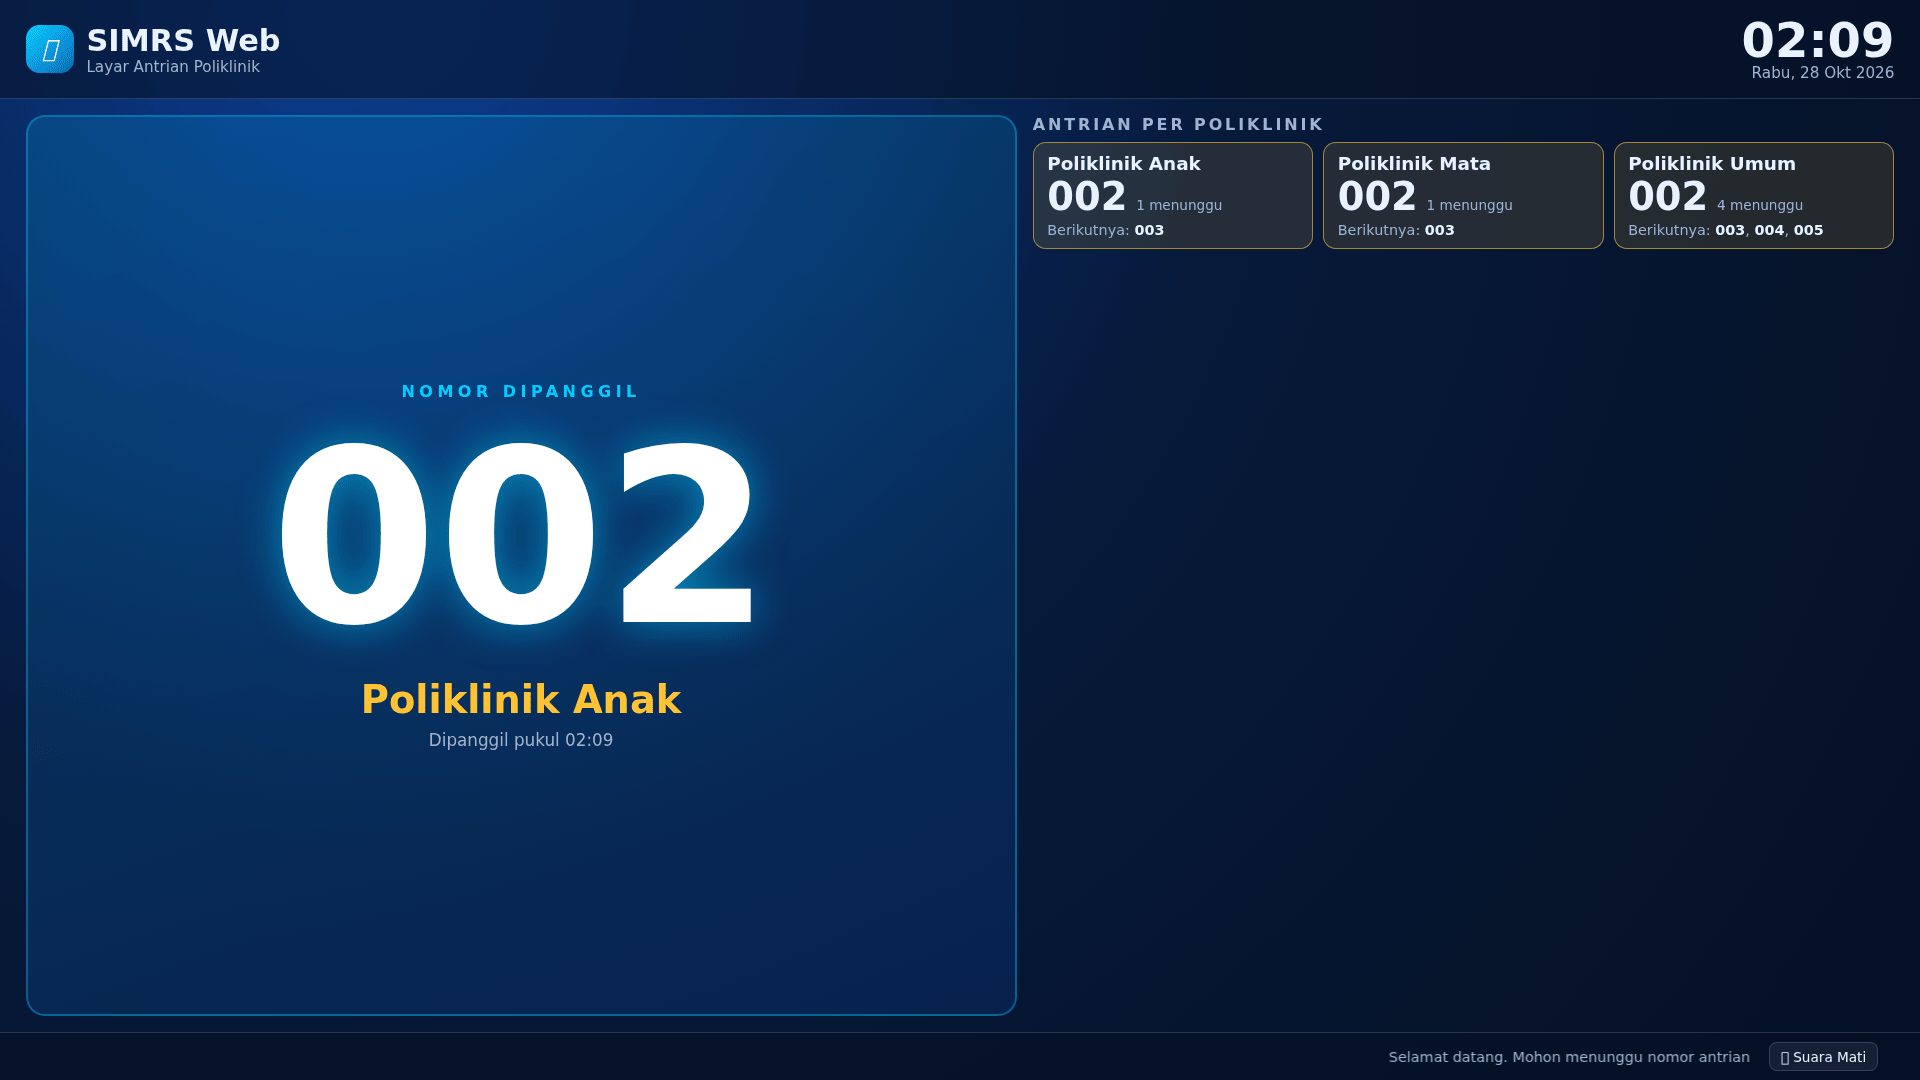
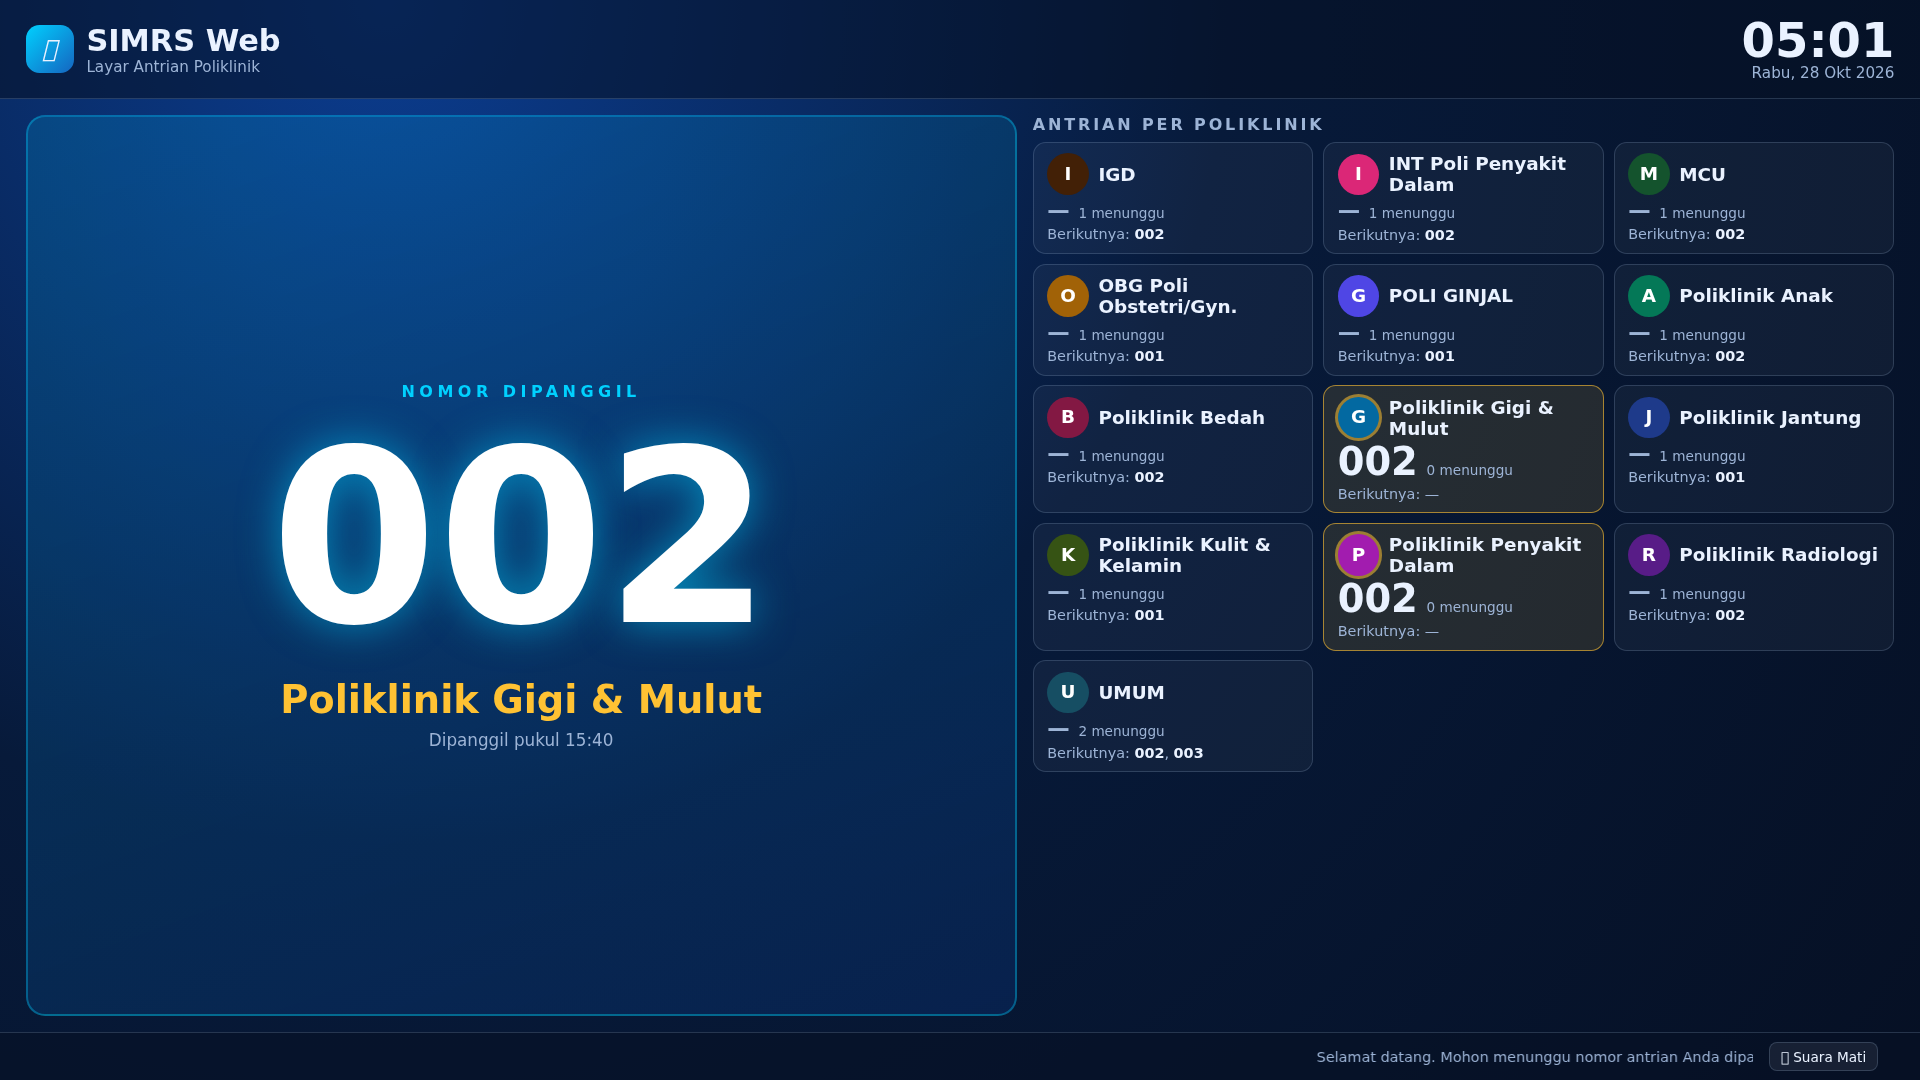
feat(antrian): pemisah warna per poliklinik
Setiap poliklinik kini punya satu warna tetap dan huruf awalan yang tampil
sama di seluruh aplikasi: kartu grup dan baris di modul Antrian, kartu
informasi kunjungan, dan kartu poliklinik di layar display. Pasien bisa
mencocokkan warna kartu antriannya dengan kartu poliklinik di layar tanpa
membaca nama poli, yang penting untuk pasien lansia atau saat layar jauh.

Warna diberikan berdasarkan urutan kd_poli, bukan hasil hash. Dengan hash,
22 poliklinik hanya kebagian 10 warna dan ada yang bersebelahan mendapat
warna sama; dengan urutan, selama poliklinik tidak lebih dari jumlah warna
(36) tidak ada satu pun yang berbagi warna. Poliklinik nonaktif ikut
dihitung supaya nomor antrian lama tetap punya warna sendiri.

Palet 36 warna disusun dengan algoritma jarak warna terbesar memakai jarak
persepsi CIELAB, sehingga warna yang berdampingan di daftar selalu berbeda
jelas. Seluruh warna diuji kontras >= 4,6 terhadap teks putih (WCAG AA)
karena huruf awalan dicetak putih di atasnya.

Pada layar display, warna dan huruf awalan dikirim lewat JSON yang sudah
ada, jadi tidak ada permintaan tambahan. Nilainya divalidasi sebagai
heksadesimal sebelum masuk ke style, dan nama poliklinik tetap diisi lewat
textContent, sehingga data dari basis data tidak bisa menyelipkan CSS/HTML.

Diverifikasi di Chromium: 13 poliklinik pada tanggal uji masing-masing
mendapat warna berbeda (border unik 13/13, 13 warna palet terdeteksi di
[…]

diff --git a/assets/css/simrs.css b/assets/css/simrs.css
@@ -718,7 +718,61 @@ hr {
 }
 
 /* ============================================================
-   5. CETAK
+   5. PEMISAH ANTRIAN PER POLIKLINIK
+   Satu warna tetap per poliklinik. Dipakai di modul Antrian, kartu
+   informasi kunjungan, dan layar display, sehingga tiket yang dipegang
+   pasien bisa dicocokkan warnanya dengan kartu poliklinik di layar.
+   ============================================================ */
+.sk-poli-mark {
+  --sk-poli: #1d4ed8;
+  display: inline-flex;
+  align-items: center;
+  justify-content: center;
+  width: 1.7rem;
+  height: 1.7rem;
+  flex: none;
+  border-radius: 999px;
+  background: var(--sk-poli);
+  color: #fff;
+  font-size: .78rem;
+  font-weight: 700;
+  line-height: 1;
+  letter-spacing: .02em;
+  vertical-align: -.35rem;
+}
+
+.sk-poli-mark-lg {
+  width: 2.6rem;
+  height: 2.6rem;
+  font-size: 1.15rem;
+  vertical-align: middle;
+}
+
+/* Kartu grup poliklinik: garis warna di kiri + judul bertinta warna. */
+.sk-poli-card {
+  border-left: 5px solid var(--sk-poli);
+}
+
+.sk-poli-card > .card-header {
+  background: rgba(148, 163, 184, .12);
+}
+
+/* Tinta header hanya bila peramban mendukung color-mix; tanpa itu tetap
+   terbaca karena latar abu-abu di atas sudah netral di kedua tema. */
+@supports (background: color-mix(in srgb, red 10%, transparent)) {
+  .sk-poli-card > .card-header {
+    background: color-mix(in srgb, var(--sk-poli) 10%, transparent);
+  }
+}
+
+.sk-poli-nama {
+  display: inline-flex;
+  align-items: center;
+  gap: .5rem;
+}
+
+/* ============================================================
+   6. CETAK
    ============================================================ */
 @media print {
   .app-sidebar,

diff --git a/pages/display.php b/pages/display.php
@@ -36,6 +36,8 @@ if ($format === 'panggil' || $format === 'json') {
     foreach (antrian_ringkasan_aktif($tgl) as $p) {
         $daftar[] = [
             'poli' => to_utf8($p['nm_poli']),
+            'warna' => poli_warna((string)$p['kd_poli']),
+            'awalan' => poli_awalan((string)$p['nm_poli'], (string)$p['kd_poli']),
             'dipanggil' => $p['nomor_dipanggil'] !== null ? antrian_nomor_tampil((int)$p['nomor_dipanggil']) : null,
             'berikutnya' => array_map(fn($n) => antrian_nomor_tampil((int)$n), $p['berikutnya']),
             'menunggu' => (int)$p['menunggu'],
@@ -145,7 +147,16 @@ $nomorDipanggil = $panggilan !== null ? antrian_nomor_tampil((int)$panggilan['no
       padding: .65rem .85rem;
     }
     .disp-card.aktif { border-color: rgba(255, 194, 51, .6); background: rgba(255, 194, 51, .12); }
-    .disp-card .nm { font-weight: 600; font-size: clamp(.85rem, 1.3vw, 1.15rem); margin-bottom: .25rem; }
+    .disp-card .nm { display: flex; align-items: center; gap: .6rem; font-weight: 600; font-size: clamp(.85rem, 1.3vw, 1.15rem); margin-bottom: .25rem; }
+    /* Pemisah warna per poliklinik — disalin dari simrs.css karena halaman ini
+       sengaja tidak memuat CSS aplikasi. Warna tetap sama dengan modul Antrian. */
+    .sk-poli-mark {
+      display: inline-flex; align-items: center; justify-content: center;
+      width: 2.6rem; height: 2.6rem; flex: none; border-radius: 999px;
+      background: var(--sk-poli, #0e7490); color: #fff;
+      font-size: 1.15rem; font-weight: 700; line-height: 1;
+    }
+    .disp-card.aktif .sk-poli-mark { box-shadow: 0 0 0 3px rgba(255, 194, 51, .55); }
     .disp-card .baris { display: flex; align-items: baseline; gap: .55rem; }
     .disp-card .angka { font-size: clamp(1.5rem, 2.8vw, 2.4rem); font-weight: 700; font-variant-numeric: tabular-nums; line-height: 1; }
     .disp-card .angka.kosong { color: var(--disp-muted); font-size: 1.4rem; }
@@ -205,8 +216,8 @@ $nomorDipanggil = $panggilan !== null ? antrian_nomor_tampil((int)$panggilan['no
       <div class="disp-cards" id="daftarPoli">
         <?php foreach ($ringkasan as $r): ?>
           <?php $dipanggil = $r['nomor_dipanggil']; ?>
-          <article class="disp-card<?= $dipanggil !== null ? ' aktif' : '' ?>">
-            <div class="nm"><?= e($r['nm_poli']) ?></div>
+          <article class="disp-card<?= $dipanggil !== null ? ' aktif' : '' ?>" style="--sk-poli: <?= e(poli_warna((string)$r['kd_poli'])) ?>">
+            <div class="nm"><span class="sk-poli-mark sk-poli-mark-lg"><?= e(poli_awalan((string)$r['nm_poli'], (string)$r['kd_poli'])) ?></span><?= e($r['nm_poli']) ?></div>
             <div class="baris">
               <?php if ($dipanggil !== null): ?>
                 <span class="angka"><?= e(antrian_nomor_tampil((int)$dipanggil)) ?></span>
@@ -337,19 +348,28 @@ $nomorDipanggil = $panggilan !== null ? antrian_nomor_tampil((int)$panggilan['no
       const next = (r.berikutnya && r.berikutnya.length)
         ? r.berikutnya.map(function (n) { return '<b>' + n + '</b>'; }).join(', ')
         : '&mdash;';
-      return '<article class="disp-card' + aktif + '">' +
-             '<div class="nm"></div>' +
+      // Warna hanya dipakai bila benar-benar heksadesimal, supaya tidak bisa
+      // menyelipkan CSS/HTML lewat kolom poliklinik.
+      const warna = /^#[0-9a-f]{6}$/i.test(r.warna || '') ? r.warna : '#0e7490';
+      return '<article class="disp-card' + aktif + '" style="--sk-poli: ' + warna + '">' +
+             '<div class="nm"><span class="sk-poli-mark sk-poli-mark-lg"></span><span class="nm-teks"></span></div>' +
              '<div class="baris">' + angka + '<span class="kecil">' + r.menunggu + ' menunggu</span></div>' +
              '<div class="next">Berikutnya: ' + next + '</div></article>';
     });
     // Hari tanpa antrian: tetap tampilkan keterangan, jangan biarkan layar kosong.
     elDaftar.innerHTML = kartu.length
       ? kartu.join('')
-      : '<div class="disp-card"><div class="nm">Belum ada antrian hari ini</div>' +
+      : '<div class="disp-card"><div class="nm"><span class="nm-teks"></span></div>' +
         '<div class="next">Nomor dibuat otomatis saat registrasi kunjungan.</div></div>';
-    // Nama poliklinik diisi lewat textContent agar tidak bisa disalahgunakan sebagai HTML.
-    const nodes = elDaftar.querySelectorAll('.disp-card .nm');
-    (data.daftar || []).forEach(function (r, i) { if (nodes[i]) nodes[i].textContent = r.poli || ''; });
+    // Nama poliklinik dan huruf awalan diisi lewat textContent agar tidak bisa
+    // disalahgunakan sebagai HTML.
+    const nodes = elDaftar.querySelectorAll('.disp-card .nm-teks');
+    const marks = elDaftar.querySelectorAll('.disp-card .sk-poli-mark');
+    (data.daftar || []).forEach(function (r, i) {
+      if (nodes[i]) nodes[i].textContent = r.poli || '';
+      if (marks[i]) marks[i].textContent = r.awalan || '';
+    });
+    if (!kartu.length && nodes[0]) nodes[0].textContent = 'Belum ada antrian hari ini';
   }
 
   async function muat() {

diff --git a/includes/helpers.php b/includes/helpers.php
@@ -139,7 +139,91 @@ function terbilang(float $angka): string
     return ucfirst($teks) . ' rupiah';
 }
 
-function badge_status(string $status): string
+/**
+ * Pemisah visual antrian per poliklinik.
+ *
+ * Tiap poliklinik mendapat satu warna tetap (murni dari kd_poli, jadi tidak
+ * berubah antar hari) plus huruf awalan, supaya tiket yang dipegang pasien bisa
+ * dicocokkan warnanya dengan kartu poliklinik di layar.
+ *
+ * Warna disusun dengan algoritma "jarak warna terbesar" memakai jarak persepsi
+ * CIELAB, sehingga dua poliklinik yang berdampingan di daftar selalu terlihat
+ * jelas berbeda. Semua warna sudah diuji kontras >= 4.6 terhadap teks putih
+ * (WCAG AA), karena huruf awalan dicetak putih di atasnya.
+ */
+const SK_POLI_WARNA = [
+    '#4a044e', '#4d7c0f', '#dc2626', '#7c3aed', '#0e7490', '#422006',
+    '#db2777', '#a16207', '#1e40af', '#047857', '#a21caf', '#831843',
+    '#334155', '#365314', '#7f1d1d', '#581c87', '#15803d', '#0369a1',
+    '#c2410c', '#1e3a8a', '#2563eb', '#78350f', '#14532d', '#0f766e',
+    '#701a75', '#c026d3', '#4f46e5', '#b45309', '#b91c1c', '#164e63',
+    '#9d174d', '#166534', '#3f6212', '#1d4ed8', '#475569', '#9333ea',
+];
+
+/**
+ * Peta warna per poliklinik.
+ *
+ * Warna diberikan berdasarkan urutan `kd_poli`, bukan hasil hash, supaya
+ * selama jumlah poliklinik tidak melebihi jumlah warna, setiap poliklinik
+ * benar-benar mendapat warna yang berbeda. Karena urutan ini sama dengan
+ * urutan tampil daftar antrian, poliklinik yang berdampingan di layar selalu
+ * mendapat warna yang berjauhan di palet.
+ */
+function poli_warna_peta(): array
+{
+    static $peta = null;
+    if ($peta !== null) {
+        return $peta;
+    }
+    $peta = [];
+    if (!function_exists('db_all')) {
+        return $peta;
+    }
+    try {
+        foreach (array_values(db_all('SELECT kd_poli FROM poliklinik ORDER BY kd_poli')) as $i => $r) {
+            $peta[(string)$r['kd_poli']] = SK_POLI_WARNA[$i % count(SK_POLI_WARNA)];
+        }
+    } catch (Throwable) {
+        // Poliklinik belum ada (mis. saat wizard instalasi) — pakai cadangan hash.
+        $peta = [];
+    }
+    return $peta;
+}
+
+/** Warna tetap untuk sebuah poliklinik. */
+function poli_warna(string $kdPoli): string
+{
+    $peta = poli_warna_peta();
+    if (isset($peta[$kdPoli])) {
+        return $peta[$kdPoli];
+    }
+    // Poliklinik di luar daftar (mis. sudah dinonaktifkan) tetap butuh warna.
+    return SK_POLI_WARNA[abs(crc32($kdPoli)) % count(SK_POLI_WARNA)];
+}
+
+/** Huruf awalan poliklinik untuk ditampilkan di lingkaran warna. */
+function poli_awalan(string $nmPoli, string $kdPoli): string
+{
+    // Lewati kata umum supaya awalannya bermakna ("Poli Gigi" -> "G", bukan "P").
+    $umum = ['poli', 'poliklinik', 'klinik', 'unit', 'instalasi', 'ruang'];
+    foreach (preg_split('/\s+/', trim($nmPoli)) ?: [] as $kata) {
+        $bersih = strtolower(preg_replace('/[^A-Za-z]/', '', $kata) ?? '');
+        if ($bersih !== '' && !in_array($bersih, $umum, true)) {
+            return strtoupper(substr($bersih, 0, 1));
+        }
+    }
+    return strtoupper(substr(trim($kdPoli) !== '' ? trim($kdPoli) : '-', 0, 1));
+}
+
+/** HTML lingkaran warna + huruf awalan poliklinik. */
+function poli_penanda(string $nmPoli, string $kdPoli, string $kelas = ''): string
+{
+    return '<span class="sk-poli-mark ' . e($kelas) . '" style="--sk-poli:' . e(poli_warna($kdPoli)) . '" aria-hidden="true">'
+        . e(poli_awalan($nmPoli, $kdPoli)) . '</span>';
+}
+
+/** Kelas warna badge untuk sebuah status (dipakai PHP dan dikirim ke JS saat perbarui data). */
+function badge_kelas(string $status): string
 {
     $map = [
         'Belum' => 'text-bg-warning',
@@ -151,8 +235,12 @@ function badge_status(string $status): string
         'Dirawat' => 'text-bg-secondary',
         'Pulang Paksa' => 'text-bg-danger',
     ];
-    $class = $map[$status] ?? 'text-bg-secondary';
-    return '<span class="badge ' . $class . '">' . e($status) . '</span>';
+    return $map[$status] ?? 'text-bg-secondary';
+}
+
+function badge_status(string $status): string
+{
+    return '<span class="badge ' . badge_kelas($status) . '">' . e($status) . '</span>';
 }
 
 /**

diff --git a/pages/antrian.php b/pages/antrian.php
@@ -71,6 +71,7 @@ $rows = antrian_daftar($tgl, $poliFilter, $statusFilter);
 $perPoli = [];
 foreach ($rows as $r) {
     $perPoli[$r['kd_poli']]['nama'] = $r['nm_poli'] ?? $r['kd_poli'];
+    $perPoli[$r['kd_poli']]['warna'] = poli_warna((string)$r['kd_poli']);
     $perPoli[$r['kd_poli']]['baris'][] = $r;
 }
 
@@ -186,9 +187,13 @@ require_once __DIR__ . '/../includes/header.php';
 <?php endif; ?>
 
 <?php foreach ($perPoli as $kdPoli => $grup): ?>
-  <div class="card mb-3">
+  <div class="card mb-3 sk-poli-card" style="--sk-poli: <?= e($grup['warna']) ?>">
     <div class="card-header d-flex flex-wrap justify-content-between align-items-center gap-2">
-      <h3 class="card-title mb-0"><i class="bi bi-hospital me-1"></i><?= e($grup['nama']) ?> <span class="badge text-bg-secondary"><?= count($grup['baris']) ?></span></h3>
+      <h3 class="card-title mb-0 sk-poli-nama">
+        <?= poli_penanda($grup['nama'], (string)$kdPoli) ?>
+        <?= e($grup['nama']) ?>
+        <span class="badge text-bg-secondary"><?= count($grup['baris']) ?></span>
+      </h3>
       <form method="post" action="<?= e(url('antrian')) ?>" class="d-inline">
         <input type="hidden" name="act" value="berikutnya" />
         <input type="hidden" name="tgl" value="<?= e($tgl) ?>" />
@@ -216,10 +221,15 @@ require_once __DIR__ . '/../includes/header.php';
             <tr>
               <td><span class="fs-5 fw-semibold"><?= e(antrian_nomor_tampil((int)$r['nomor'])) ?></span></td>
               <td>
-                <?= e($r['nm_pasien'] ?? '-') ?>
-                <?php if (!empty($r['no_rkm_medis'])): ?>
-                  <br /><small class="text-body-secondary"><?= e($r['no_rkm_medis']) ?></small>
-                <?php endif; ?>
+                <span class="sk-poli-nama">
+                  <?= poli_penanda((string)($r['nm_poli'] ?? $kdPoli), (string)$kdPoli) ?>
+                  <span>
+                    <?= e($r['nm_pasien'] ?? '-') ?>
+                    <?php if (!empty($r['no_rkm_medis'])): ?>
+                      <br /><small class="text-body-secondary"><?= e($r['no_rkm_medis']) ?></small>
+                    <?php endif; ?>
+                  </span>
+                </span>
               </td>
               <td class="d-none d-md-table-cell"><code><?= e($r['no_rawat'] ?? '-') ?></code></td>
               <td><?= antrian_badge((string)$r['status']) ?></td>

diff --git a/includes/kunjungan.php b/includes/kunjungan.php
@@ -93,7 +93,10 @@ function kunjungan_card(array $v): void
             <small class="text-muted">No. Rawat</small><br /><strong><?= e($v['no_rawat']) ?></strong>
           </div>
           <div class="col-md-3">
-            <small class="text-muted"><?= e($v['nm_poli']) ?> &middot; <?= e($v['nm_dokter']) ?></small><br />
+            <small class="text-muted sk-poli-nama">
+              <?= poli_penanda((string)$v['nm_poli'], (string)$v['kd_poli']) ?>
+              <span><?= e($v['nm_poli']) ?> &middot; <?= e($v['nm_dokter']) ?></span>
+            </small><br />
             <small class="text-muted"><?= e(tgl_indo($v['tgl_registrasi'])) ?> <?= e(substr((string)$v['jam_reg'], 0, 5)) ?> &middot; <?= e($v['png_jawab'] ?? '-') ?></small>
           </div>
           <div class="col-md-2 text-md-end">

diff --git a/README.md b/README.md
@@ -54,6 +54,7 @@ membaca/menulis ke database `sik`. Untuk mencobanya, lihat bagian [Instalasi](#-
 | **Master data** | Pasien, dokter, poliklinik, penjamin, dan tarif perawatan |
 | **Registrasi kunjungan** | Pendaftaran rawat jalan & rawat inap, nomor rekam medis otomatis |
 | **Antrian poliklinik** | Nomor antrian otomatis per poliklinik saat registrasi, pemanggilan, dan pemantauan status |
+| **Pemisah antrian** | Satu warna tetap + huruf awalan per poliklinik, sama di modul Antrian dan layar display |
 | **Layar display** | Layar TV ruang tunggu (tanpa login) dengan nomor dipanggil, bel, dan pengumuman suara |
 | **Tindakan medis** | Pencatatan tindakan dokter dan petugas dengan tarif otomatis |
 | **Diagnosa & resep** | Diagnosa ICD-10 dan resep obat per kunjungan |
@@ -173,9 +174,23 @@ tampil penuh satu layar, dan menyegarkan dirinya setiap 3 detik:
 - bel dan pengumuman suara Bahasa Indonesia (`SpeechSynthesis`), yang aktif setelah
   tombol **Suara** ditekan — peramban memblokir audio sebelum ada interaksi pengguna.
 
+### Pemisah antrian per poliklinik
+
+Setiap poliklinik punya satu **warna tetap** dan **huruf awalan** yang tampil sama di
+seluruh aplikasi: kartu grup di modul Antrian, tiap baris antrian, kartu informasi
+kunjungan, dan kartu poliklinik di layar display. Jadi pasien bisa mencocokkan warna
+pada kartu antriannya dengan kartu poliklinik di layar tanpa harus membaca nama poli.
+
+Warna diberikan berdasarkan urutan `kd_poli`, sehingga selama jumlah poliklinik tidak
+melebihi jumlah warna (36), tidak ada dua poliklinik yang berbagi warna — termasuk
+poliklinik nonaktif yang masih tersimpan di basis data. Palet disusun dengan algoritma
+jarak warna terbesar memakai jarak persepsi CIELAB, supaya warna yang berdampingan di
+layar selalu terlihat jelas berbeda, dan semua warna diuji kontras ≥ 4,6 terhadap teks
+putih (WCAG AA).
+
 > **Privasi.** Layar display bersifat publik, jadi halaman ini **hanya** mengirim nomor
-> antrian dan nama poliklinik. Nama pasien dan No. Rekam Medis tidak pernah dikirim ke
-> peramban, baik di HTML maupun di respons JSON.
+> antrian, nama poliklinik, warna, dan huruf awalan. Nama pasien dan No. Rekam Medis
+> tidak pernah dikirim ke peramban, baik di HTML maupun di respons JSON.
 
 ### Menjalankan layar display
 
